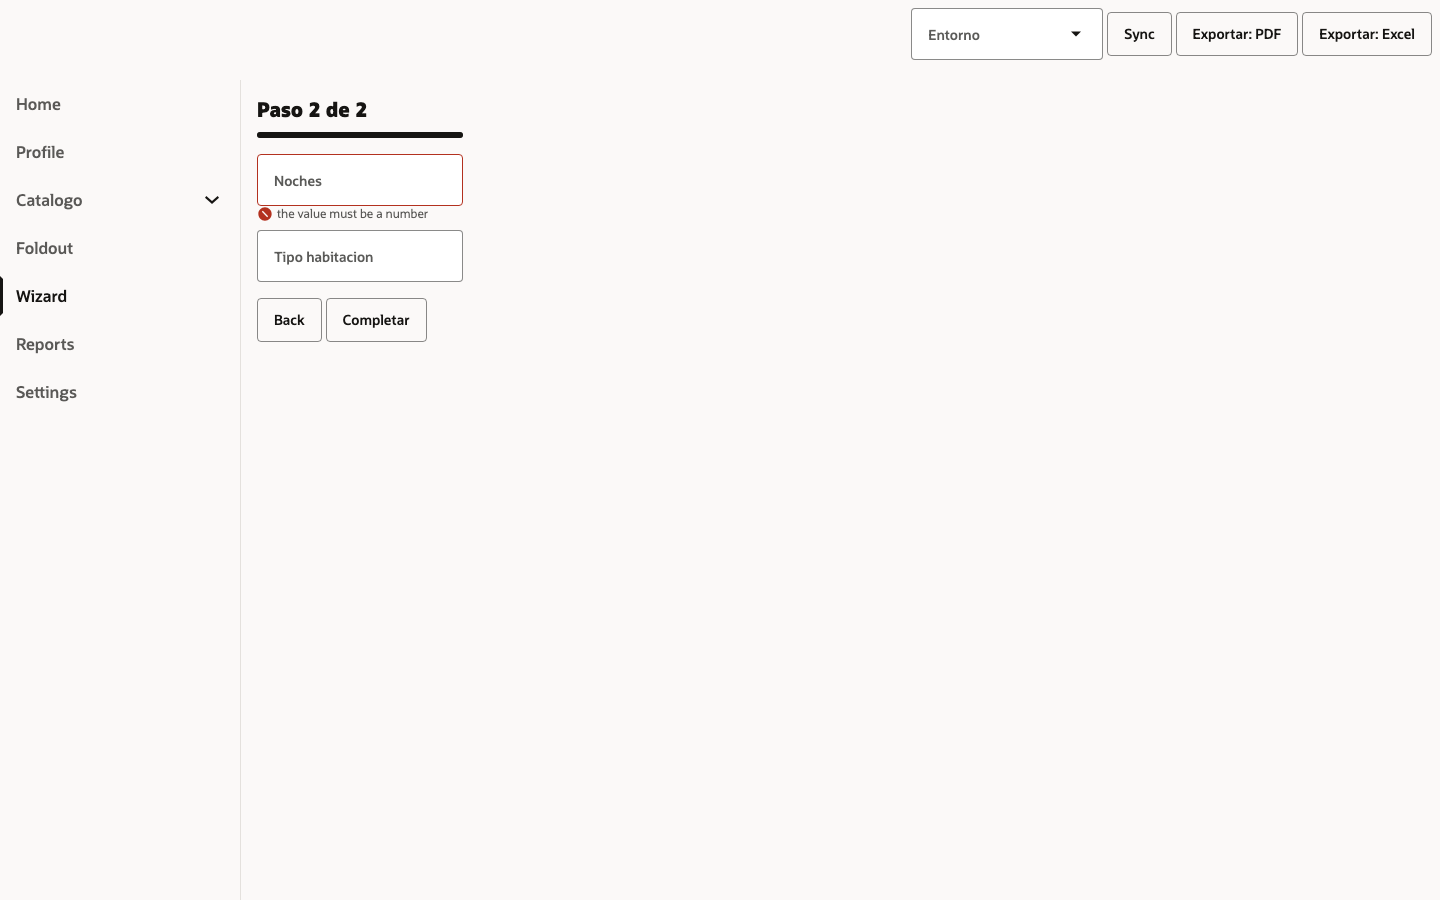
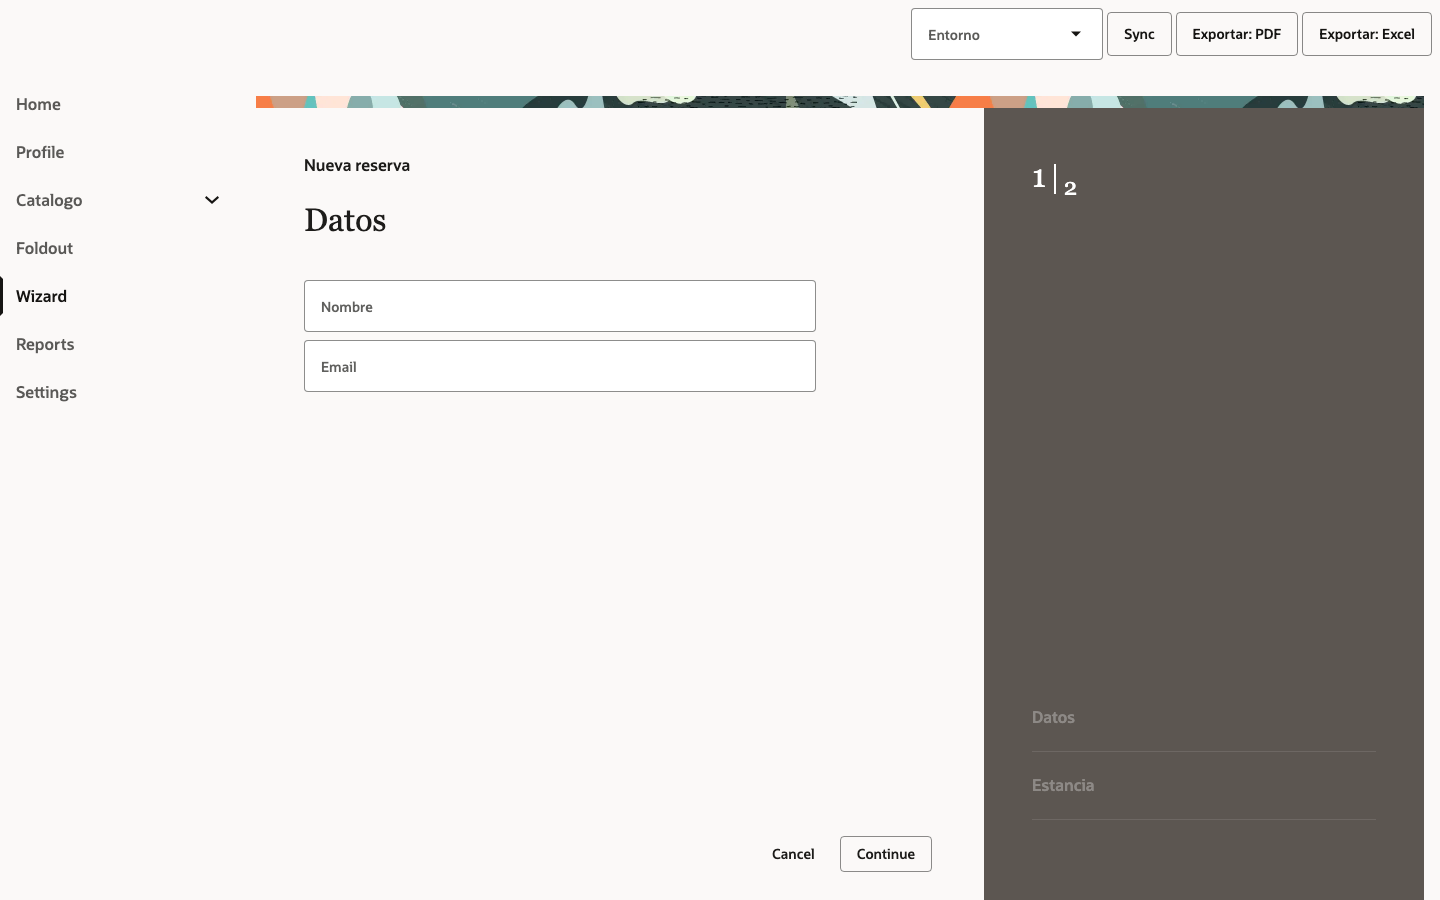
feat(vb-renderer): Fase 8 uses the real oj-sp-guided-process + full-width shell
Replace the composed wizard with the authentic Spectra oj-sp-guided-process, and
make the shell content fill the width so it (and every page) uses the full area to
the right of the menu.

- app-flow.js: feed the component `steps` ([{id,title,status}]; status 'success' for
  done steps — the current step is marked by the current-step property, not status),
  `current-step` (=position), `primary-action` ({label}); its navigation is driven by
  Mateu — on-sp-before-step-navigate compares currentStep/nextStep → advance
  (the wire's next/completar) or 'back'; on-sp-cancel exits to the first route.
  wizardNav renamed _wizardStep(actionId); guidedPrimary/guidedStepChange/guidedCancel.
- shell-page.html: drop oj-drawer-layout (its main content shrank to the content's
  natural width — 774px) for a plain oj-flex: nav flex 0 0 15rem + content flex 1 1
  auto (min-width:0) + oj-vb-content display:block width:100%. Now the guided-process
  fills 1168px (was 742) and the table/foldout fill too.
- HTML: oj-sp-guided-process with the step form in the default slot.

Gotcha (DESIGN-NOTES): the guided-process navigates via on-sp-before-step-navigate
(detail currentStep/nextStep/triggeredFrom), NOT on-sp-primary-action; status enum is
success/none; the component shrinks its container (use plain flex, not drawer-layout).

Verified: step 1 (Continue) → step 2 (Completar) with the Datos step check-marked and
the "N | M" counter; Cancel exits; full width; Home/Profile/Contacts/Foldout still
[…]

diff --git a/.dev/vb/frontoffice-renderer/webApps/vbredwoodapp/app-flow.js b/.dev/vb/frontoffice-renderer/webApps/vbredwoodapp/app-flow.js
@@ -14,11 +14,12 @@ define([
   'oj-c/select-single',
   'oj-sp/foldout-layout/loader',
   'oj-sp/foldout-panel/loader',
+  'oj-sp/guided-process/loader',
   'ojs/ojprogress-bar',
   'ojs/ojarraydataprovider',
   'ojs/ojarraytreedataprovider',
   'knockout',
-], function (_shell, _drawer, _nav, _table, _it, _in, _btn, _sel, _fl, _fp, _pb, ArrayDataProvider, ArrayTreeDataProvider, ko) {
+], function (_shell, _drawer, _nav, _table, _it, _in, _btn, _sel, _fl, _fp, _gp, _pb, ArrayDataProvider, ArrayTreeDataProvider, ko) {
   'use strict';
 
   const BASE = 'http://localhost:9001';
@@ -281,24 +282,26 @@ define([
       // Foldout (Fase 7): overview + paneles plegables.
       this.foldoutOverview = ko.observable('');
       this.foldoutPanels = ko.observableArray([]);
-      // Wizard (Fase 8): posición/total de pasos + los botones reales del paso (back/next/completar…).
+      // Wizard (Fase 8): estado del proceso guiado (oj-sp-guided-process).
       this.wizardPosition = ko.observable(0);
       this.wizardTotal = ko.observable(0);
-      this.wizardActions = ko.observableArray([]);
+      this.wizardSteps = ko.observableArray([]); // [{id,title,status}] para el rail del guided-process
+      this.wizardAdvanceId = 'next'; // acción del botón primario (next/completar)
+      this.wizardAdvanceLabel = ko.observable('Siguiente');
     }
 
     getNavData() {
       return this.navDP;
     }
-    getWizardPct() {
-      const t = this.wizardTotal();
-      return t > 1 ? Math.round((this.wizardPosition() / (t - 1)) * 100) : 0;
+    // ── oj-sp-guided-process (Fase 8) ──────────────────────────────────────────────
+    getGuidedSteps() {
+      return this.wizardSteps();
     }
-    getWizardLabel() {
-      return 'Paso ' + (this.wizardPosition() + 1) + ' de ' + this.wizardTotal();
+    getGuidedCurrent() {
+      return String(this.wizardPosition());
     }
-    getWizardActions() {
-      return this.wizardActions();
+    getGuidedPrimary() {
+      return { label: this.wizardAdvanceLabel(), progressState: 'off' };
     }
     getFormFields() {
       return this.formFields;
@@ -393,7 +396,8 @@ define([
       // App metadata para la cabecera (Fase 6): selectores de contexto + acciones.
       this.contextSelectors(md.contextSelectors || []);
       this.contextActions(md.contextActions || []);
-      return { firstRoute: firstLeaf(tree) };
+      this.firstRoute = firstLeaf(tree);
+      return { firstRoute: this.firstRoute };
     }
 
     async loadRoute(route) {
@@ -521,14 +525,45 @@ define([
       this._buildFormFields(host, this.wizardState);
       const ps = findSteps(host.tree);
       const steps = (ps && ps.steps) || [];
+      const pos = steps.filter((s) => s.status === 'done' || s.done).length;
       this.wizardTotal(steps.length);
-      this.wizardPosition(steps.filter((s) => s.status === 'done' || s.done).length);
-      this.wizardActions(collectActions(host.tree));
+      this.wizardPosition(pos);
+      // Steps para el rail del oj-sp-guided-process: id/title/status. El status de oj-sp usa
+      // 'success' (paso hecho) / 'none'; el paso ACTUAL lo marca la propiedad current-step, no el status.
+      this.wizardSteps(
+        steps.map((s, i) => ({
+          id: String(i),
+          title: s.label || s.title || 'Paso ' + (i + 1),
+          status: i < pos ? 'success' : 'none',
+        })),
+      );
+      // Botón primario = la acción que NO es 'back' (next/completar…).
+      const actions = collectActions(host.tree);
+      const advance = actions.filter((a) => a.actionId !== 'back')[0];
+      this.wizardAdvanceId = advance ? advance.actionId : 'next';
+      this.wizardAdvanceLabel(advance ? advance.label : 'Siguiente');
     }
 
-    // Fase 8: navega el wizard con el actionId del botón pulsado (back/next/completar…).
-    async wizardNav(event) {
-      const actionId = event && event.currentTarget ? event.currentTarget.getAttribute('data-action-id') : null;
+    // Botón primario del guided-process → avanza (next/completar).
+    async guidedPrimary() {
+      return this._wizardStep(this.wizardAdvanceId);
+    }
+    // spBeforeStepNavigate: el guided-process pide ir a otro paso. Dirección por currentStep/nextStep:
+    // adelante → la acción de avance del wire (next/completar); atrás → 'back'.
+    async guidedStepChange(event) {
+      const d = (event && event.detail) || {};
+      const cur = parseInt(d.currentStep, 10);
+      const nxt = parseInt(d.nextStep, 10);
+      if (!isNaN(cur) && !isNaN(nxt) && nxt < cur) return this._wizardStep('back');
+      return this._wizardStep(this.wizardAdvanceId);
+    }
+    // Cancelar el proceso guiado → salir del wizard (volver a la primera ruta).
+    async guidedCancel() {
+      return this.loadRoute(this.firstRoute || '');
+    }
+
+    // Fase 8: navega el wizard con un actionId (next/back/completar…). Reenvía estado + ediciones.
+    async _wizardStep(actionId) {
       if (!actionId) return { isWizard: true };
       // Estado acumulado (todos los pasos) + ediciones del paso actual leídas del DOM.
       const state = Object.assign({}, this.wizardState || {});

diff --git a/.dev/vb/frontoffice-renderer/webApps/vbredwoodapp/pages/shell-page.html b/.dev/vb/frontoffice-renderer/webApps/vbredwoodapp/pages/shell-page.html
@@ -37,34 +37,32 @@
   </div>
 
   <div class="oj-web-applayout-content-nopad oj-web-spacing oj-flex">
-    <oj-drawer-layout start-opened="true">
-      <!-- Navigator (Fase 2/6) — chrome persistente del shell -->
-      <div slot="start" style="min-width: 15rem; max-width: 15rem">
-        <oj-navigation-list
-          data="[[ $application.functions.getNavData() ]]"
-          drill-mode="collapsible"
-          on-selection-changed="[[ $listeners.navSelect ]]"
-          class="oj-navigationlist-nofollow-link"
-        >
-          <template slot="itemTemplate" data-oj-as="item">
-            <li :id="[[ item.data.route ]]">
-              <a style="cursor: pointer">
-                <oj-bind-text value="[[ item.data.label ]]"></oj-bind-text>
-              </a>
-            </li>
-          </template>
-        </oj-navigation-list>
-      </div>
+    <!-- Nav (ancho fijo) + contenido (flex:1) — el contenido edge-to-edge (guided-process, tabla,
+         foldout) llena TODO el ancho a la derecha del menú. -->
+    <div class="oj-flex-item-initial" style="flex: 0 0 15rem">
+      <oj-navigation-list
+        data="[[ $application.functions.getNavData() ]]"
+        drill-mode="collapsible"
+        on-selection-changed="[[ $listeners.navSelect ]]"
+        class="oj-navigationlist-nofollow-link"
+      >
+        <template slot="itemTemplate" data-oj-as="item">
+          <li :id="[[ item.data.route ]]">
+            <a style="cursor: pointer">
+              <oj-bind-text value="[[ item.data.label ]]"></oj-bind-text>
+            </a>
+          </li>
+        </template>
+      </oj-navigation-list>
+    </div>
 
-      <!-- Contenido -->
-      <div class="oj-flex-item" style="min-width: 0">
-        <oj-sp-messages-banner
-          data="[[ $variables.messagesBannerADP ]]"
-          on-sp-close="[[$listeners.messagesBannerSpClose]]"
-        ></oj-sp-messages-banner>
-        <oj-sp-messages-toast primary-text="[[ $variables.messageToast ]]" id="messageToast"></oj-sp-messages-toast>
-        <oj-vb-content id="vbRouterContent" config="[[vbRouterFlow]]"></oj-vb-content>
-      </div>
-    </oj-drawer-layout>
+    <div class="oj-flex-item" style="flex: 1 1 auto; min-width: 0">
+      <oj-sp-messages-banner
+        data="[[ $variables.messagesBannerADP ]]"
+        on-sp-close="[[$listeners.messagesBannerSpClose]]"
+      ></oj-sp-messages-banner>
+      <oj-sp-messages-toast primary-text="[[ $variables.messageToast ]]" id="messageToast"></oj-sp-messages-toast>
+      <oj-vb-content id="vbRouterContent" config="[[vbRouterFlow]]" style="display: block; width: 100%"></oj-vb-content>
+    </div>
   </div>
 </div>

diff --git a/.dev/vb/frontoffice-renderer/webApps/vbredwoodapp/flows/main/pages/main-start-page.html b/.dev/vb/frontoffice-renderer/webApps/vbredwoodapp/flows/main/pages/main-start-page.html
@@ -3,20 +3,21 @@
 <!-- CONTENIDO (el navigator + cabecera viven en el shell-page). Bindea $application.functions /
      $application.variables (el bridge está en app-flow.js). Solo markup oj-* de los ejemplos. -->
 <div class="oj-sm-padding-4x">
-  <!-- Wizard (Fase 8): proceso guiado server-driven = progreso + form del paso + Next/Back -->
+  <!-- Wizard (Fase 8): proceso guiado AUTÉNTICO oj-sp-guided-process. El rail/pasos/botón primario
+       los pinta el componente; el form del paso va en el slot por defecto; la acción primaria
+       (Siguiente/Completar) la dirige Mateu (next/completar). -->
   <oj-bind-if test="[[ $application.variables.isWizard ]]">
-    <div style="max-width: 40rem">
-      <div class="oj-flex oj-sm-align-items-center oj-sm-margin-2x-bottom">
-        <span class="oj-flex-item oj-typography-heading-xs">
-          <oj-bind-text value="[[ $application.functions.getWizardLabel() ]]"></oj-bind-text>
-        </span>
-      </div>
-      <oj-progress-bar
-        class="oj-sm-margin-4x-bottom"
-        value="[[ $application.functions.getWizardPct() ]]"
-        max="100"
-      ></oj-progress-bar>
-      <div class="oj-form-layout oj-sm-margin-4x-bottom">
+    <oj-sp-guided-process
+      style="width: 100%; display: block"
+      process-title="Nueva reserva"
+      steps="[[ $application.functions.getGuidedSteps() ]]"
+      current-step="[[ $application.functions.getGuidedCurrent() ]]"
+      primary-action="[[ $application.functions.getGuidedPrimary() ]]"
+      on-sp-primary-action="[[ $listeners.guidedPrimary ]]"
+      on-sp-before-step-navigate="[[ $listeners.guidedStep ]]"
+      on-sp-cancel="[[ $listeners.guidedCancel ]]"
+    >
+      <div class="oj-form-layout" style="max-width: 32rem">
         <oj-bind-for-each data="[[ $application.functions.getFormFields() ]]">
           <template data-oj-as="field">
             <div class="oj-sm-margin-2x-bottom">
@@ -30,19 +31,7 @@
           </template>
         </oj-bind-for-each>
       </div>
-      <div class="oj-flex">
-        <oj-bind-for-each data="[[ $application.functions.getWizardActions() ]]">
-          <template data-oj-as="act">
-            <oj-c-button
-              class="oj-sm-margin-1x-end"
-              label="[[ act.data.label ]]"
-              :data-action-id="[[ act.data.actionId ]]"
-              on-oj-action="[[ $listeners.wizardAct ]]"
-            ></oj-c-button>
-          </template>
-        </oj-bind-for-each>
-      </div>
-    </div>
+    </oj-sp-guided-process>
   </oj-bind-if>
 
   <!-- Foldout (Fase 7): overview + paneles plegables oj-sp -->
